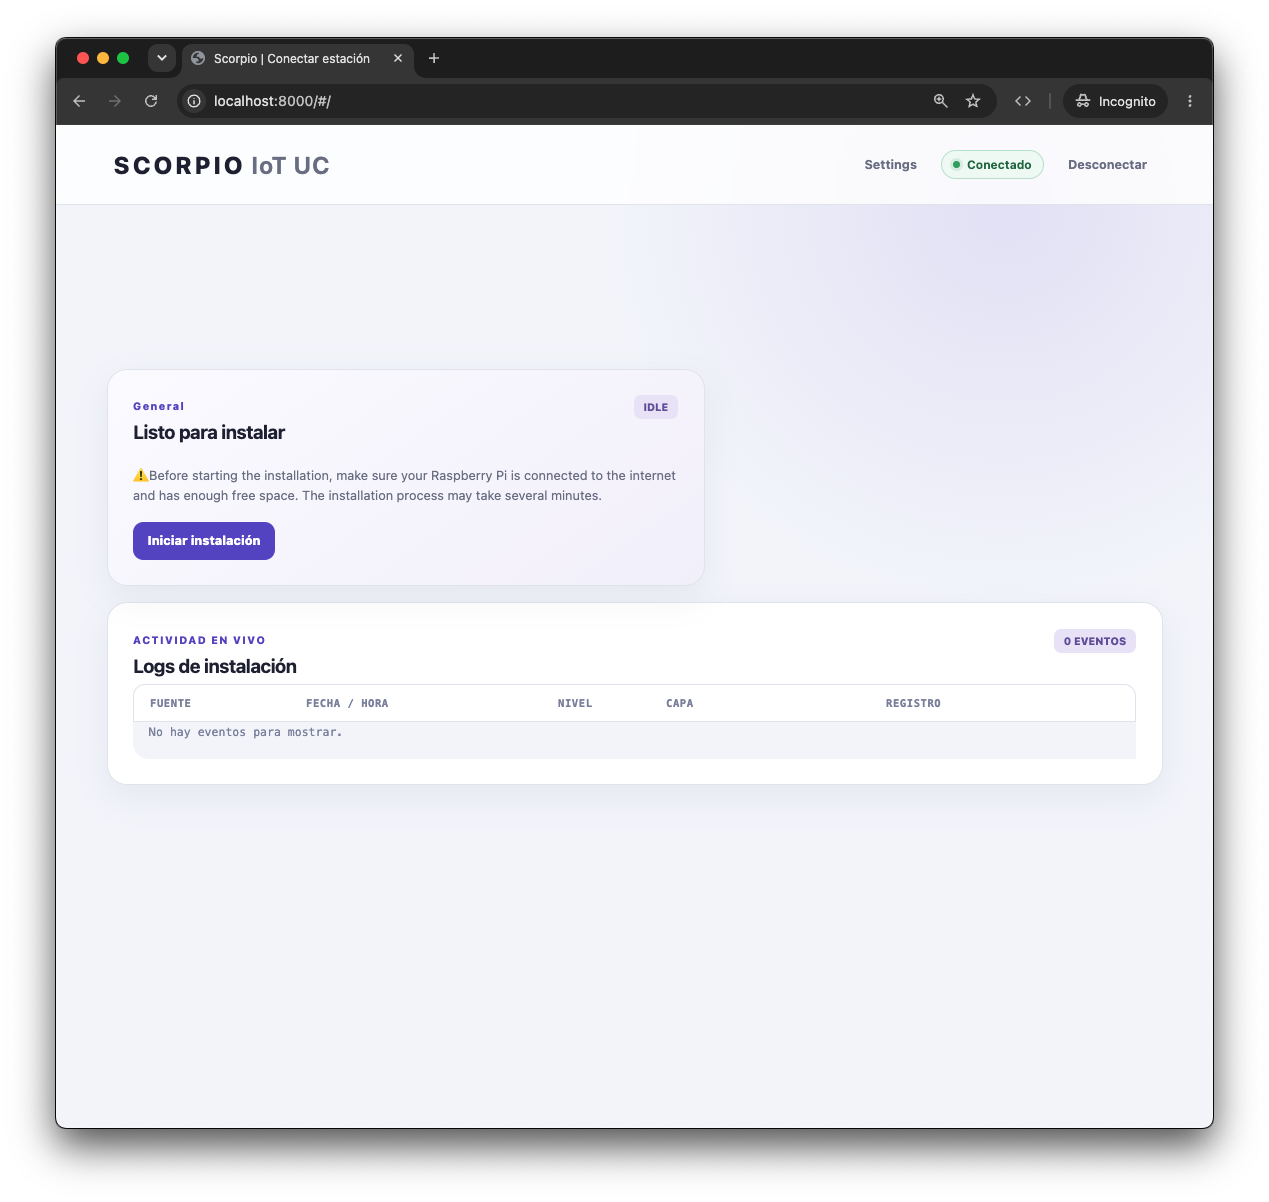
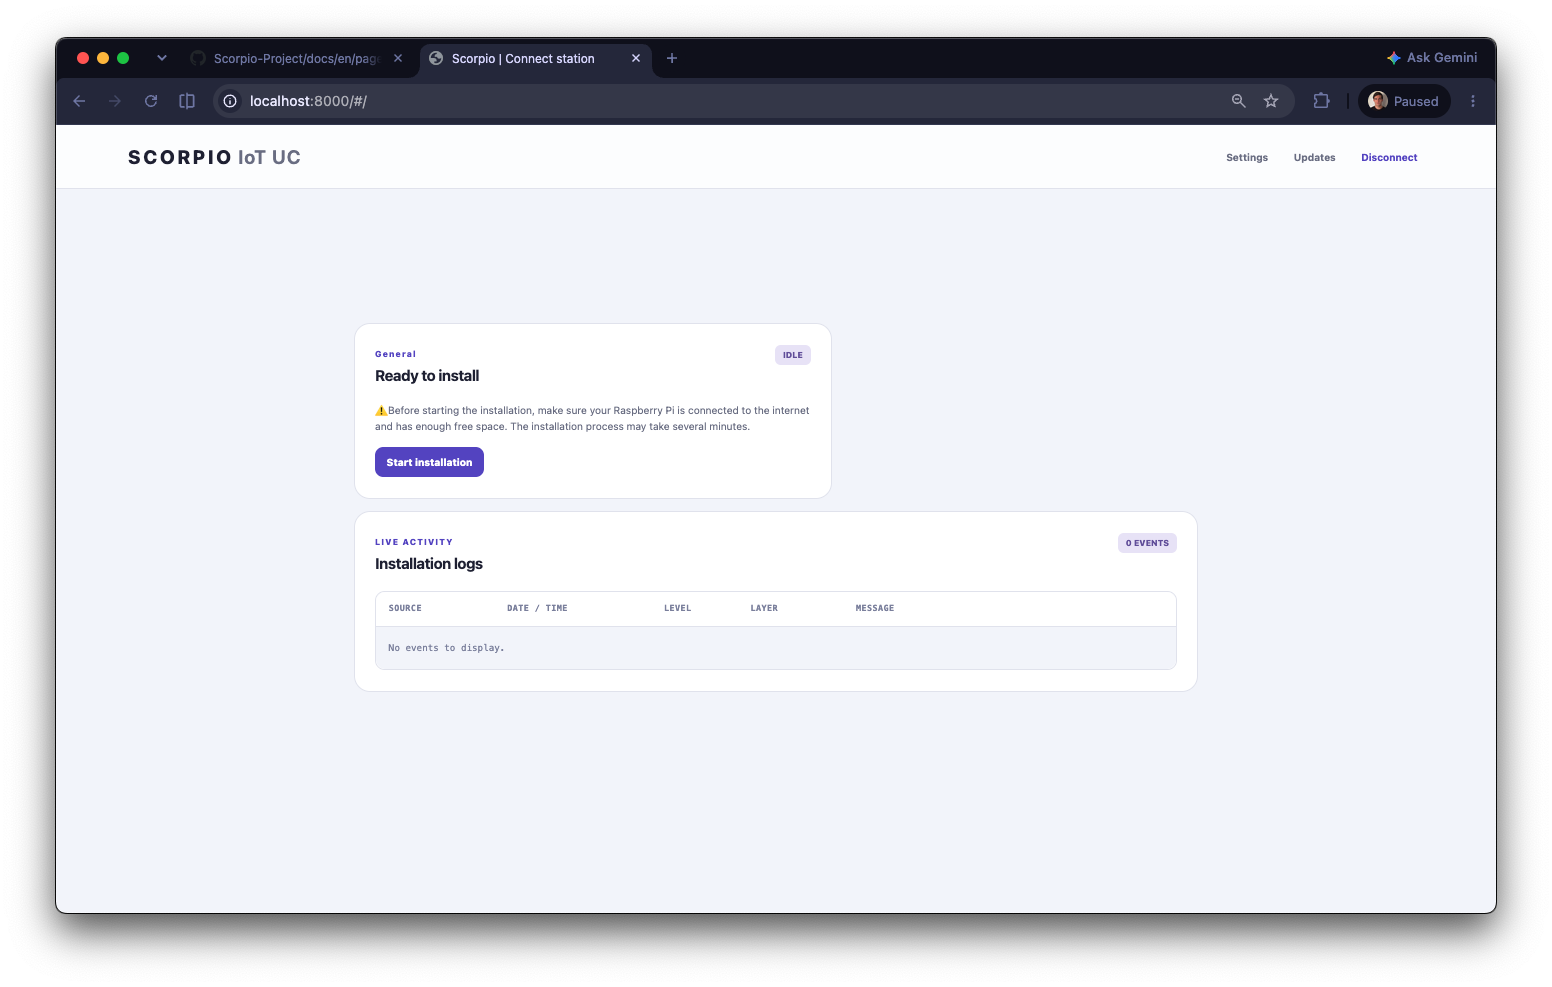
feat(docs): update scorpio CLI installation

diff --git a/docs/es/page2.md b/docs/es/page2.md
@@ -49,7 +49,7 @@ pip install --upgrade scorpio-cli
 pipx upgrade scorpio-cli
 ```
 
-### 2. Abrir la UI e iniciar sesión
+### 2. Abrir la interfaz y conectarse a la Raspberry Pi
 
 Ejecuta:
 
@@ -63,41 +63,107 @@ El terminal mostrará:
 INFO:root:Server started at http://localhost:8000
 ```
 
-Abre [http://localhost:8000](http://localhost:8000) e ingresa el hostname o dirección IP, usuario y contraseña SSH de la Raspberry Pi. Ambos dispositivos deben estar accesibles desde la misma red o mediante Tailscale.
+Abre [http://localhost:8000](http://localhost:8000) e ingresa los siguientes datos:
+
+- **IP Address or hostname:** hostname o dirección IP de la Raspberry Pi, por ejemplo `scorpio.local` o `192.168.1.100`.
+- **Username:** usuario creado en Raspberry Pi Imager, por ejemplo `scorpio`.
+- **Password:** contraseña SSH de ese usuario.
+
+El computador y la Raspberry Pi deben estar accesibles desde la misma red local o mediante Tailscale. Pulsa **Access** para iniciar la conexión SSH.
 
 <figure>
 <img src="../imgs/installation/scorpio-ui-ssh-login.png" alt="Formulario de conexión SSH de la interfaz web de Scorpio">
-<figcaption>Figura 1. Inicio de sesión SSH en la Raspberry Pi.</figcaption>
+<figcaption>Figura 1. Ingreso de las credenciales SSH de la Raspberry Pi.</figcaption>
 </figure>
 
 ### 3. Iniciar la instalación
 
-Después de conectarte aparecerá el panel de instalación. Verifica que la Raspberry Pi tenga conexión a Internet y espacio disponible, y haz clic en **Iniciar instalación**.
+Después de conectarte aparecerá el panel principal con el estado **Ready to install**. Verifica que la Raspberry Pi tenga conexión a Internet y espacio disponible, y pulsa **Start installation**.
 
 <figure>
 <img src="../imgs/installation/scorpio-ui-install-ready.png" alt="Panel de Scorpio listo para iniciar la instalación">
-<figcaption>Figura 2. Panel listo para iniciar la instalación.</figcaption>
+<figcaption>Figura 2. Interfaz lista para iniciar la instalación.</figcaption>
 </figure>
 
-La UI descarga el último release de Scorpio-Project, instala las dependencias del host y prepara la infraestructura Docker. El proceso puede tardar varios minutos y genera una gran cantidad de logs.
+### 4. Supervisar el proceso de instalación
+
+La interfaz descarga el último release de Scorpio-Project, instala las dependencias de bajo nivel y configura la infraestructura Docker. El proceso puede tardar varios minutos y genera una gran cantidad de eventos.
 
 <figure>
 <img src="../imgs/installation/scorpio-ui-install-logs.png" alt="Logs de instalación de Scorpio mostrados en tiempo real">
-<figcaption>Figura 3. Progreso y logs de instalación en tiempo real.</figcaption>
+<figcaption>Figura 3. Instalación en curso y eventos registrados en tiempo real.</figcaption>
 </figure>
 
-Revisa los logs durante la instalación. Si ocurre un problema, el estado cambiará a **Failed** y el último registro indicará la causa. Cuando el proceso finalice correctamente, aparecerá **Completed**.
+Mientras el estado sea **Running**, no cierres la interfaz ni apagues la Raspberry Pi. Puedes pulsar el botón `+` de un evento para ver su detalle. Si ocurre un problema, el estado cambiará a **Failed** y los últimos registros ayudarán a identificar la causa. Cuando termine correctamente, aparecerá **Installation complete** con el estado **Completed**.
 
-### 4. Reiniciar y administrar los servicios
+### 5. Reiniciar la Raspberry Pi y administrar los servicios
 
-Después de completar la instalación, se recomienda usar el botón **Reiniciar Raspberry Pi**. La conexión se cerrará temporalmente; espera unos minutos y vuelve a iniciar sesión cuando el dispositivo esté disponible.
+Al finalizar, la tarjeta **Service status** muestra el estado de la infraestructura y habilita sus controles.
 
-La UI mostrará el estado de la infraestructura, los logs de los servicios y los controles **Start** y **Stop**. Usa **Update page** para volver a consultar el estado y reconectar los logs cuando sea necesario.
+<figure>
+<img src="../imgs/installation/scorpio-ui-install-completed.png" alt="Instalación de Scorpio completada y servicios detenidos">
+<figcaption>Figura 4. Instalación completada y controles de la infraestructura disponibles.</figcaption>
+</figure>
+
+Pulsa **Reboot Raspberry Pi** para aplicar todos los cambios del sistema. La conexión SSH se cerrará temporalmente. Espera unos minutos, vuelve a abrir la interfaz e ingresa nuevamente las credenciales de acceso.
+
+Los controles de servicio tienen las siguientes funciones:
+
+- **Start:** inicia los servicios Docker de Scorpio.
+- **Stop:** detiene los servicios sin eliminar los datos persistentes.
+- **Refresh page:** vuelve a consultar el estado y reconecta la visualización de logs.
+- **Reiniciar servicios:** pulsa **Stop**, espera a que el estado cambie a **Stopped** y luego pulsa **Start**.
+- **Reboot Raspberry Pi:** reinicia el sistema operativo completo; no equivale a reiniciar solamente los servicios.
+
+Cuando la infraestructura esté activa, el estado cambiará a **Running** y la sección **Service logs** mostrará los eventos de los contenedores. Puedes filtrar los registros por servicio y rango de tiempo.
 
 <figure>
 <img src="../imgs/installation/scorpio-ui-services.png" alt="Panel de servicios y logs de infraestructura de Scorpio">
-<figcaption>Figura 4. Administración de la infraestructura y logs de servicios.</figcaption>
+<figcaption>Figura 5. Servicios activos y logs de la infraestructura.</figcaption>
 </figure>
+
+### 6. Configurar la Station Key y la API
+
+Después de completar la instalación, abre **Settings** desde la barra superior. En **Station settings**, configura la conexión utilizada para publicar los paquetes de Scorpio.
+
+<figure>
+<img src="../imgs/installation/scorpio-ui-station-settings.png" alt="Formulario de configuración de Station Key y URL de la API de Scorpio">
+<figcaption>Figura 6. Configuración de la Station Key y de la URL base de la API.</figcaption>
+</figure>
+
+Completa los campos con el siguiente formato. Para el entorno de producción, utiliza la URL base indicada:
+
+```text
+Station Key:
+a121183c-1f93-4675-8a6c-58e075022db4.tmQ0fJwNGsMZYPJpoBTYZq_JE9X1LPqQotmquA7vAvY
+
+Scorpio API URL:
+https://scorpio.cpsrtc.cl/api/
+```
+
+> **Importante:** para completar esta configuración debes tener una Station Key activa. La clave se obtiene al crear la estación en la [plataforma de Scorpio](https://scorpio.cpsrtc.cl/). Copia y conserva la clave entregada durante ese proceso; el valor anterior se incluye únicamente como ejemplo de formato y no permite acceder a ninguna estación. No publiques una Station Key activa en documentación, repositorios, capturas ni mensajes.
+
+En **Scorpio API URL**, ingresa la dirección actual de la API de producción: `https://scorpio.cpsrtc.cl/api/`. Pulsa **Save** para guardar la configuración; la interfaz actualizará el archivo `.env` de la Raspberry Pi y reiniciará automáticamente el servicio `data-export`.
+
+Si aparece `Could not load Scorpio API settings` antes de instalar Scorpio, completa primero la instalación y vuelve a abrir **Settings**.
+
+### 7. Revisar y aplicar actualizaciones
+
+Abre **Updates** desde la barra superior para consultar las versiones instaladas de Scorpio CLI y Scorpio-Project. Si todo está actualizado, la interfaz mostrará **Scorpio CLI is already up to date**.
+
+<figure>
+<img src="../imgs/installation/scorpio-ui-updates-current.png" alt="Panel de actualizaciones indicando que Scorpio está actualizado">
+<figcaption>Figura 7. Scorpio CLI y Scorpio-Project sin actualizaciones pendientes.</figcaption>
+</figure>
+
+Pulsa **Check again** para repetir la consulta. Si existe una versión nueva, aparecerá el botón **Update**.
+
+<figure>
+<img src="../imgs/installation/scorpio-ui-update-available.png" alt="Panel de Scorpio mostrando una actualización disponible">
+<figcaption>Figura 8. Ejemplo de una actualización disponible.</figcaption>
+</figure>
+
+Pulsa **Update** y mantén la ventana abierta hasta que finalice el proceso. Después, vuelve al panel principal y verifica que la infraestructura continúe en estado **Running**.
 
 ## Opción B: instalar desde la terminal
 

diff --git a/docs/en/page2.md b/docs/en/page2.md
@@ -49,7 +49,7 @@ pip install --upgrade scorpio-cli
 pipx upgrade scorpio-cli
 ```
 
-### 2. Open the UI and sign in
+### 2. Open the interface and connect to the Raspberry Pi
 
 Run:
 
@@ -63,41 +63,107 @@ The terminal will display:
 INFO:root:Server started at http://localhost:8000
 ```
 
-Open [http://localhost:8000](http://localhost:8000) and enter the Raspberry Pi hostname or IP address, SSH username, and password. Both devices must be reachable through the same network or Tailscale.
+Open [http://localhost:8000](http://localhost:8000) and enter the following information:
+
+- **IP Address or hostname:** the Raspberry Pi hostname or IP address, such as `scorpio.local` or `192.168.1.100`.
+- **Username:** the account created in Raspberry Pi Imager, such as `scorpio`.
+- **Password:** the SSH password for that account.
+
+The computer and Raspberry Pi must be reachable through the same local network or Tailscale. Click **Access** to start the SSH connection.
 
 <figure>
 <img src="../imgs/installation/scorpio-ui-ssh-login.png" alt="Scorpio web interface SSH connection form">
-<figcaption>Figure 1. Signing in to the Raspberry Pi over SSH.</figcaption>
+<figcaption>Figure 1. Entering the Raspberry Pi SSH credentials.</figcaption>
 </figure>
 
 ### 3. Start the installation
 
-After connecting, the installation panel appears. Make sure the Raspberry Pi has Internet access and enough free space, then click **Iniciar instalación**.
+After connecting, the main panel displays the **Ready to install** status. Make sure the Raspberry Pi has Internet access and enough free space, then click **Start installation**.
 
 <figure>
 <img src="../imgs/installation/scorpio-ui-install-ready.png" alt="Scorpio panel ready to start the installation">
-<figcaption>Figure 2. Installation panel ready to start.</figcaption>
+<figcaption>Figure 2. Interface ready to start the installation.</figcaption>
 </figure>
 
-The UI downloads the latest Scorpio-Project release, installs the host dependencies, and prepares the Docker infrastructure. The process can take several minutes and produces many logs.
+### 4. Monitor the installation
+
+The interface downloads the latest Scorpio-Project release, installs the low-level dependencies, and configures the Docker infrastructure. This process can take several minutes and produces many events.
 
 <figure>
 <img src="../imgs/installation/scorpio-ui-install-logs.png" alt="Scorpio installation logs displayed in real time">
-<figcaption>Figure 3. Real-time installation progress and logs.</figcaption>
+<figcaption>Figure 3. Installation in progress with real-time events.</figcaption>
 </figure>
 
-Monitor the logs during installation. If a problem occurs, the status changes to **Failed**, and the latest record identifies the cause. When the process finishes successfully, the status changes to **Completed**.
+While the status is **Running**, do not close the interface or power off the Raspberry Pi. Click the `+` button for an event to view its details. If a problem occurs, the status changes to **Failed**, and the latest records help identify the cause. When it finishes successfully, the interface displays **Installation complete** with the **Completed** status.
 
-### 4. Restart and manage services
+### 5. Reboot the Raspberry Pi and manage services
 
-After installation completes, we recommend using the **Reiniciar Raspberry Pi** button. The connection closes temporarily; wait a few minutes and sign in again when the device is available.
+After installation, the **Service status** card displays the infrastructure status and enables its controls.
 
-The UI displays the infrastructure status, service logs, and **Start** and **Stop** controls. Use **Update page** to query the current status and reconnect the logs when necessary.
+<figure>
+<img src="../imgs/installation/scorpio-ui-install-completed.png" alt="Scorpio installation completed with services stopped">
+<figcaption>Figure 4. Installation completed and infrastructure controls available.</figcaption>
+</figure>
+
+Click **Reboot Raspberry Pi** to apply all system changes. The SSH connection closes temporarily. Wait a few minutes, reopen the interface, and enter the access credentials again.
+
+The service controls work as follows:
+
+- **Start:** starts the Scorpio Docker services.
+- **Stop:** stops the services without deleting persistent data.
+- **Refresh page:** requests the current status and reconnects the log display.
+- **Restart services:** click **Stop**, wait for the status to change to **Stopped**, and then click **Start**.
+- **Reboot Raspberry Pi:** restarts the entire operating system; it is not the same as restarting only the services.
+
+When the infrastructure is active, its status changes to **Running**, and **Service logs** displays container events. You can filter the logs by service and time range.
 
 <figure>
 <img src="../imgs/installation/scorpio-ui-services.png" alt="Scorpio infrastructure service and log panel">
-<figcaption>Figure 4. Infrastructure controls and service logs.</figcaption>
+<figcaption>Figure 5. Running services and infrastructure logs.</figcaption>
 </figure>
+
+### 6. Configure the Station Key and API
+
+After completing the installation, open **Settings** from the top navigation bar. Under **Station settings**, configure the connection used to publish Scorpio packets.
+
+<figure>
+<img src="../imgs/installation/scorpio-ui-station-settings.png" alt="Scorpio Station Key and API URL settings form">
+<figcaption>Figure 6. Station Key and API base URL configuration.</figcaption>
+</figure>
+
+Complete the fields using the following format. For the production environment, use the API base URL shown below:
+
+```text
+Station Key:
+a121183c-1f93-4675-8a6c-58e075022db4.tmQ0fJwNGsMZYPJpoBTYZq_JE9X1LPqQotmquA7vAvY
+
+Scorpio API URL:
+https://scorpio.cpsrtc.cl/api/
+```
+
+> **Important:** you must have an active Station Key to complete this configuration. The key is provided when you create the station on the [Scorpio platform](https://scorpio.cpsrtc.cl/). Copy and securely retain the key provided during that process; the value above is included only as a format example and does not provide access to any station. Never publish an active Station Key in documentation, repositories, screenshots, or messages.
+
+In **Scorpio API URL**, enter the current production API address: `https://scorpio.cpsrtc.cl/api/`. Click **Save** to store the configuration. The interface updates the Raspberry Pi `.env` file and automatically restarts the `data-export` service.
+
+If `Could not load Scorpio API settings` appears before installing Scorpio, complete the installation first and reopen **Settings**.
+
+### 7. Check and install updates
+
+Open **Updates** from the top navigation bar to check the installed Scorpio CLI and Scorpio-Project versions. If everything is current, the interface displays **Scorpio CLI is already up to date**.
+
+<figure>
+<img src="../imgs/installation/scorpio-ui-updates-current.png" alt="Scorpio updates page showing that the system is current">
+<figcaption>Figure 7. Scorpio CLI and Scorpio-Project with no pending updates.</figcaption>
+</figure>
+
+Click **Check again** to repeat the check. If a newer version is available, the **Update** button appears.
+
+<figure>
+<img src="../imgs/installation/scorpio-ui-update-available.png" alt="Scorpio interface showing an available update">
+<figcaption>Figure 8. Example of an available update.</figcaption>
+</figure>
+
+Click **Update** and keep the window open until the process finishes. Then return to the main panel and confirm that the infrastructure remains **Running**.
 
 ## Option B: install from the terminal
 

diff --git a/docs/es/page3.md b/docs/es/page3.md
@@ -1,6 +1,6 @@
 # 3. Configuración de acceso remoto con Tailscale
 
-[← Anterior: Scorpio CLI](page2.md) | [Índice](README.md) | [Siguiente: Scorpio Developers →](page4.md)
+[← Anterior: instalación de Scorpio](page2.md) | [Índice](README.md) | [Siguiente: Scorpio Developers →](page4.md)
 
 Tailscale crea una red privada entre la Raspberry Pi y tus dispositivos. De esta forma puedes conectarte por SSH desde fuera de la red local sin abrir puertos en el router.
 

diff --git a/docs/en/page1.md b/docs/en/page1.md
@@ -1,6 +1,6 @@
 # 1. Raspberry Pi OS installation and local access
 
-[← Contents](README.md) | [Next: Scorpio CLI installation →](page2.md)
+[← Contents](README.md) | [Next: installing Scorpio →](page2.md)
 
 ## Requirements
 
@@ -176,4 +176,3 @@ ssh scorpio@192.168.1.100
 ```
 
 On the first connection, SSH asks you to confirm the device identity. Verify the fingerprint when available, answer `yes`, and enter the configured password.
-

diff --git a/docs/en/page3.md b/docs/en/page3.md
@@ -1,6 +1,6 @@
 # 3. Remote access with Tailscale
 
-[← Previous: Scorpio CLI](page2.md) | [Contents](README.md) | [Next: Scorpio Developers →](page4.md)
+[← Previous: installing Scorpio](page2.md) | [Contents](README.md) | [Next: Scorpio Developers →](page4.md)
 
 Tailscale creates a private network between the Raspberry Pi and your devices. It lets you connect over SSH from outside the local network without opening router ports.
 

diff --git a/docs/README.md b/docs/README.md
@@ -8,7 +8,7 @@ This documentation explains how to prepare a Raspberry Pi, install Scorpio, and 
 Both versions follow the same structure:
 
 1. Raspberry Pi OS installation and local access
-2. Scorpio CLI installation
+2. Scorpio installation through the web interface or terminal
 3. Remote access with Tailscale
 4. Scorpio Developers — Part 1 *(coming soon)*
 5. Scorpio Developers — Part 2 *(coming soon)*

diff --git a/docs/es/README.md b/docs/es/README.md
@@ -3,7 +3,7 @@
 ## Instalación
 
 1. [Instalación de Raspberry Pi OS y acceso local](page1.md)
-2. [Instalación de Scorpio CLI](page2.md)
+2. [Instalación de Scorpio mediante la interfaz web o terminal](page2.md)
 3. [Configuración de acceso remoto con Tailscale](page3.md)
 
 ## Scorpio Developers

diff --git a/docs/en/README.md b/docs/en/README.md
@@ -3,7 +3,7 @@
 ## Installation
 
 1. [Raspberry Pi OS installation and local access](page1.md)
-2. [Scorpio CLI installation](page2.md)
+2. [Installing Scorpio through the web interface or terminal](page2.md)
 3. [Remote access with Tailscale](page3.md)
 
 ## Scorpio Developers

diff --git a/docs/es/page1.md b/docs/es/page1.md
@@ -1,6 +1,6 @@
 # 1. Instalación de Raspberry Pi OS y acceso local
 
-[← Índice](README.md) | [Siguiente: instalación de Scorpio CLI →](page2.md)
+[← Índice](README.md) | [Siguiente: instalación de Scorpio →](page2.md)
 
 ## Requisitos
 
